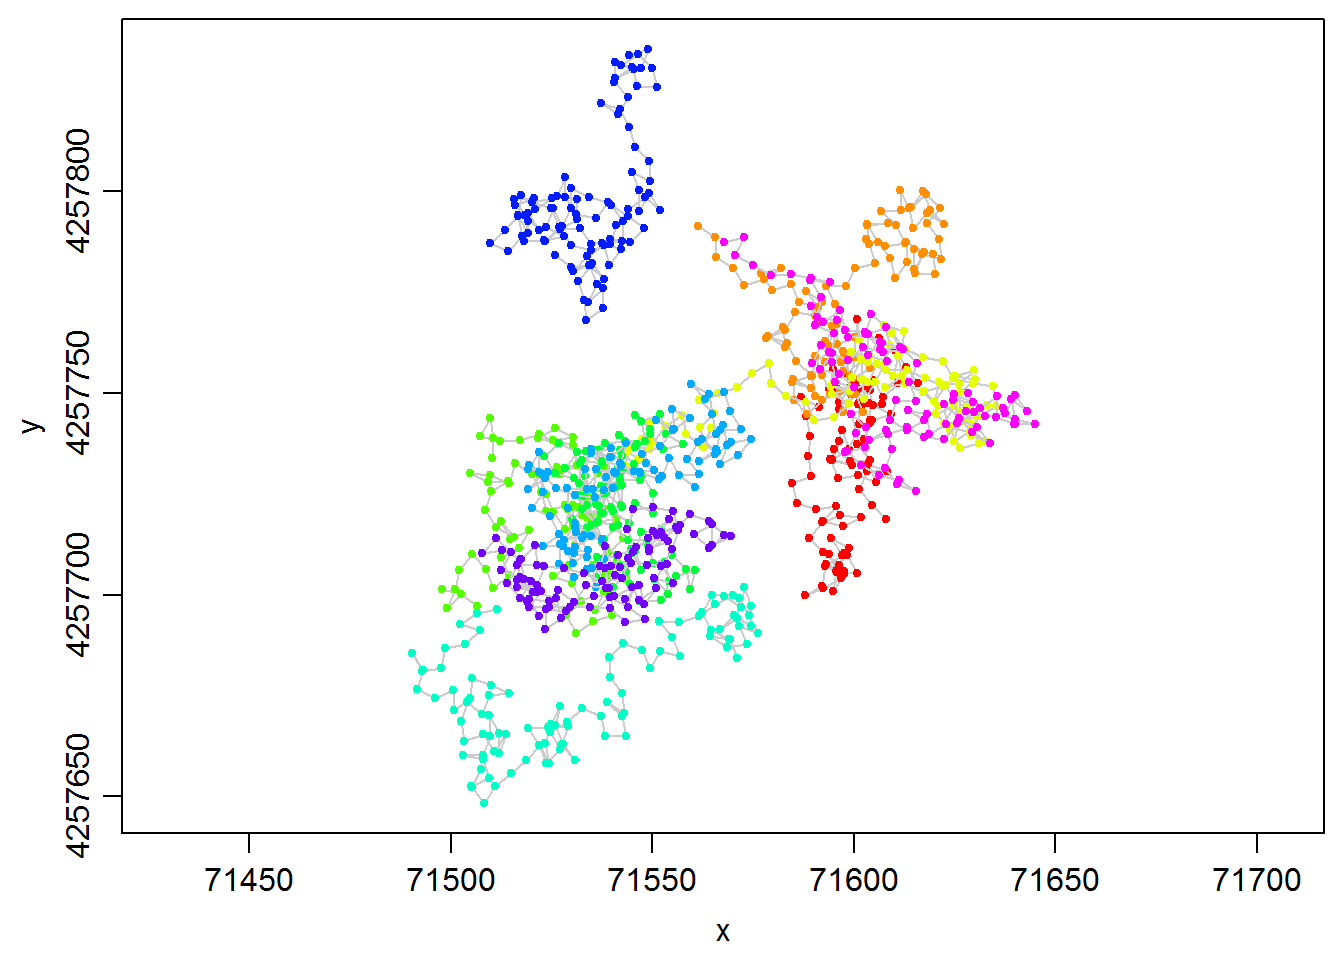
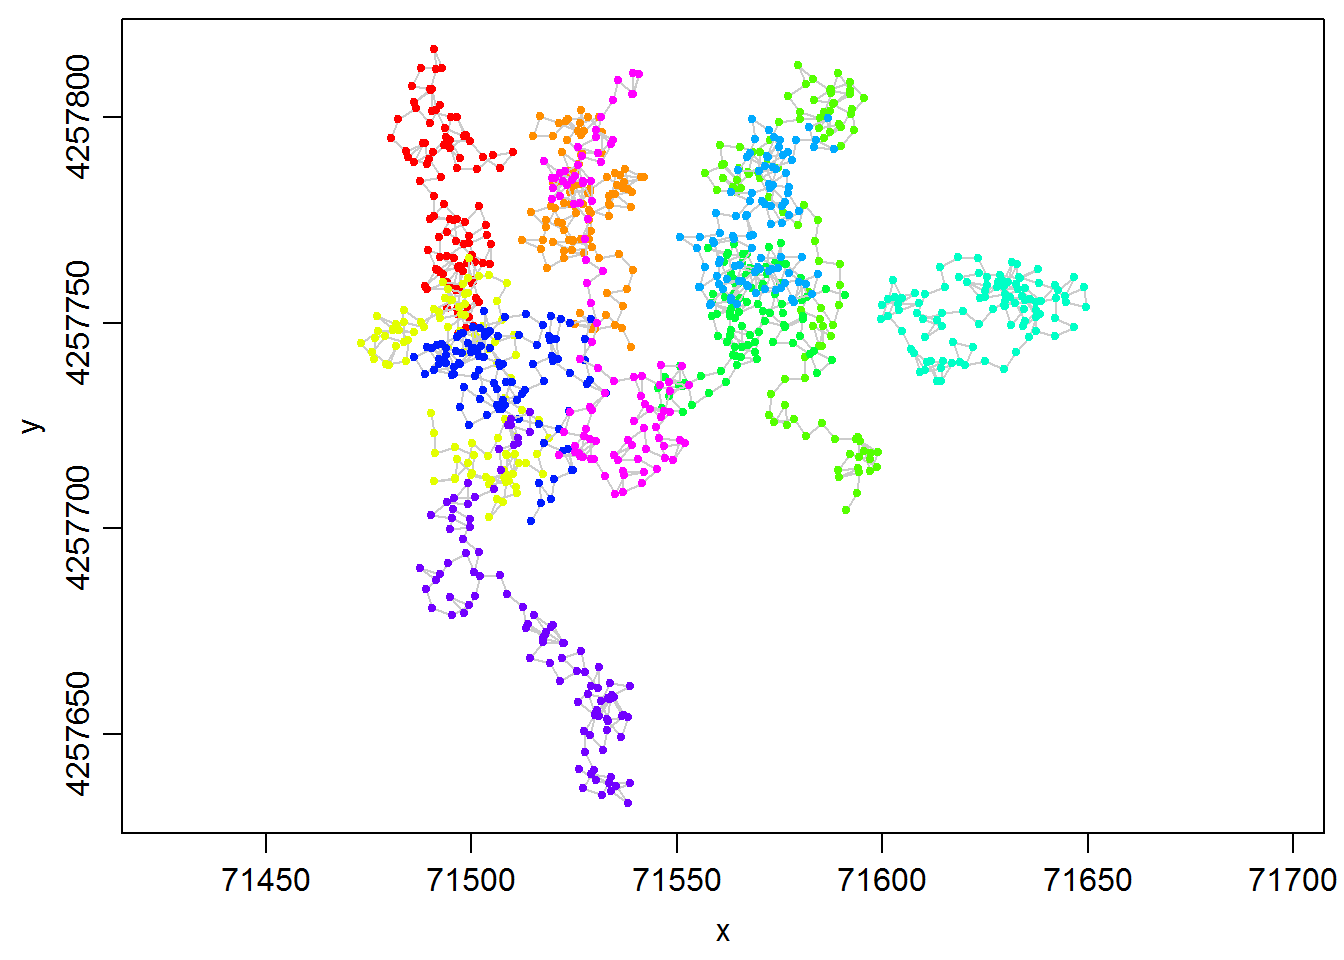
git-svn-id: svn://svn.r-forge.r-project.org/svnroot/tlocoh@91 edb9625f-4e0d-4859-8d74-9fd3b1da38cb

diff --git a/www/tips/isopleth_overlap_auto.html b/www/tips/isopleth_overlap_auto.html
@@ -11,7 +11,7 @@
 <meta name="author" content="Andy Lyons" />
 
 
-<title>Isopleth Overlap Example</title>
+<title>Computing Isopleth Overlap for All Pairs of Hullsets</title>
 
 <script src="isopleth_overlap_auto_files/jquery-1.11.0/jquery.min.js"></script>
 <meta name="viewport" content="width=device-width, initial-scale=1" />
@@ -63,7 +63,7 @@ img {
 
 
 <div id="header">
-<h1 class="title">Isopleth Overlap Example</h1>
+<h1 class="title">Computing Isopleth Overlap for All Pairs of Hullsets</h1>
 <h4 class="author"><em>Andy Lyons</em></h4>
 <h4 class="date"><em>September 4, 2015</em></h4>
 </div>
@@ -72,7 +72,7 @@ img {
 <p>In this tip, we demonstrate how to compute the area of overlap for pairs of hullsets (e.g., indviduals) using the <code>lhs.iso.overlap</code> function from the <em>tlocoh.dev</em> package.</p>
 <div id="create-dummy-data" class="section level3">
 <h3>Create Dummy Data</h3>
-<p>First let’s create some dummy movement data. We’ll create random walks for 50 indviduals, with 100 points each.</p>
+<p>First let’s create some dummy movement data. We’ll create random walks for 10 indviduals, with 100 points each.</p>
 <pre class="r"><code>step_size &lt;- 5
 xys_all &lt;- NULL
 num_id &lt;- 10
@@ -85,9 +85,20 @@ for (i in 1:num_id) {
                            x=start_loc[1] + step_size * cumsum(cos(theta)),
                            y=start_loc[2] + step_size * cumsum(sin(theta)))
     xys_all &lt;- rbind(xys_all, xys_this)
-}</code></pre>
+}
+head(xys_all)</code></pre>
+<pre><code>##       id        x        y
+## 1 ID0001 503.9631 571.4433
+## 2 ID0001 499.3660 569.4768
+## 3 ID0001 500.8815 564.7120
+## 4 ID0001 500.2178 559.7562
+## 5 ID0001 498.9221 564.5854
+## 6 ID0001 500.5292 559.8507</code></pre>
 <p>For a bit of realism, we’ll offset the locations so they’ll appear in Kansas.</p>
 <pre class="r"><code>xys_all &lt;- transform(xys_all, x = x + 71000, y = y + 4257200)</code></pre>
+</div>
+<div id="convert-to-a-locoh-xy-object" class="section level3">
+<h3>Convert to a locoh-xy Object</h3>
 <p>Next, we can convert our points to a locoh-xy object. Let’s first load the tlocoh package.</p>
 <pre class="r"><code>require(tlocoh)</code></pre>
 <pre><code>## Loading required package: tlocoh
@@ -99,10 +110,12 @@ for (i in 1:num_id) {
 packageVersion(&quot;tlocoh&quot;)</code></pre>
 <pre><code>## [1] &#39;1.35.0&#39;</code></pre>
 <pre class="r"><code>dummy.lxy &lt;- xyt.lxy(xy=xys_all[ ,2:3],id=xys_all[ ,1], proj4string = CRS(&quot;+proj=utm +zone=14 +ellps=WGS84&quot;))
-
 plot(dummy.lxy, overlay=T, title.show=F)</code></pre>
 <p><img src="isopleth_overlap_auto_files/figure-html/unnamed-chunk-3-1.png" title="" alt="" width="672" /></p>
-<p>Next, identify nearest neighbors.</p>
+</div>
+<div id="create-hulls-and-isopleths" class="section level3">
+<h3>Create Hulls and Isopleths</h3>
+<p>To create hulls, we first identify nearest neighbors.</p>
 <pre class="r"><code>dummy.lxy &lt;- lxy.nn.add(dummy.lxy, s=0, k=10, status=FALSE)
 summary(dummy.lxy)</code></pre>
 <pre><code>## Summary of LoCoH-xy object: dummy.lxy 
@@ -122,53 +135,50 @@ summary(dummy.lxy)</code></pre>
 ##    no times recorded 
 ## ***Spatial extent 
 ##    ID0001
-##      x: 71584.7 - 71615.8 
-##      y: 4257699.8 - 4257768.3 
+##      x: 71480.5 - 71510.1 
+##      y: 4257747.2 - 4257816.7 
 ##    ID0002
-##      x: 71561.3 - 71622.4 
-##      y: 4257744.7 - 4257800.4 
+##      x: 71512.4 - 71542 
+##      y: 4257744.2 - 4257801.7 
 ##    ID0003
-##      x: 71543.3 - 71635.1 
-##      y: 4257732.2 - 4257766.7 
+##      x: 71473.1 - 71519 
+##      y: 4257702.7 - 4257765.8 
 ##    ID0004
-##      x: 71497.8 - 71543.6 
-##      y: 4257690.6 - 4257743.8 
+##      x: 71557 - 71598.9 
+##      y: 4257704.6 - 4257812.7 
 ##    ID0005
-##      x: 71523.2 - 71560.7 
-##      y: 4257698.3 - 4257744.7 
+##      x: 71545.6 - 71591 
+##      y: 4257728.4 - 4257769.3 
 ##    ID0006
-##      x: 71490.4 - 71576.2 
-##      y: 4257648.4 - 4257701.9 
+##      x: 71599.7 - 71649.6 
+##      y: 4257735.8 - 4257766.1 
 ##    ID0007
-##      x: 71519.3 - 71574.5 
-##      y: 4257701.8 - 4257752.3 
+##      x: 71550.8 - 71588.4 
+##      y: 4257754.3 - 4257799.8 
 ##    ID0008
-##      x: 71509.7 - 71552 
-##      y: 4257768.2 - 4257835.3 
+##      x: 71486 - 71532.7 
+##      y: 4257701.8 - 4257752.9 
 ##    ID0009
-##      x: 71507.9 - 71569.5 
-##      y: 4257691.3 - 4257721.8 
+##      x: 71487.6 - 71538.7 
+##      y: 4257633.2 - 4257728.4 
 ##    ID0010
-##      x: 71567.8 - 71644.8 
-##      y: 4257725.7 - 4257788.6 
+##      x: 71517.7 - 71553.1 
+##      y: 4257708.4 - 4257810.8 
 ##   proj: +proj=utm +zone=14 +ellps=WGS84
 ## ***Ancilliary Variables: 
 ##    -none- 
 ## ***Nearest-neighbor set(s): 
-##    1 ID0001|vmax|s0|n100|kmax10|rmax3.4|amax22
-##    2 ID0002|vmax|s0|n100|kmax10|rmax5|amax35.9
-##    3 ID0003|vmax|s0|n100|kmax10|rmax4|amax29.5
-##    4 ID0004|vmax|s0|n100|kmax10|rmax3.5|amax20.9
-##    5 ID0005|vmax|s0|n100|kmax10|rmax4.1|amax28.1
-##    6 ID0006|vmax|s0|n100|kmax10|rmax5|amax35.2
-##    7 ID0007|vmax|s0|n100|kmax10|rmax4|amax30.7
-##    8 ID0008|vmax|s0|n100|kmax10|rmax4.8|amax30.5
-##    9 ID0009|vmax|s0|n100|kmax10|rmax4.1|amax27.5
-##    10 ID0010|vmax|s0|n100|kmax10|rmax4.4|amax32.7</code></pre>
-</div>
-<div id="create-hulls-and-isopleths" class="section level3">
-<h3>Create Hulls and Isopleths</h3>
-<p>Next, we make a hullset object. We’ll add the <code>iso.add=TRUE</code> argument to create default density isopleths at the same time and specify the isopleth levels with <code>iso.levels</code>.</p>
+##    1 ID0001|vmax|s0|n100|kmax10|rmax4.3|amax27.7
+##    2 ID0002|vmax|s0|n100|kmax10|rmax3.6|amax24.7
+##    3 ID0003|vmax|s0|n100|kmax10|rmax4.1|amax24.7
+##    4 ID0004|vmax|s0|n100|kmax10|rmax4.8|amax32.2
+##    5 ID0005|vmax|s0|n100|kmax10|rmax3.7|amax25.6
+##    6 ID0006|vmax|s0|n100|kmax10|rmax3|amax24.1
+##    7 ID0007|vmax|s0|n100|kmax10|rmax4.3|amax29.9
+##    8 ID0008|vmax|s0|n100|kmax10|rmax3.3|amax22.8
+##    9 ID0009|vmax|s0|n100|kmax10|rmax3.6|amax26.8
+##    10 ID0010|vmax|s0|n100|kmax10|rmax4|amax28.1</code></pre>
+<p>Next, we make a hullset object. We’ll add the <code>iso.add=TRUE</code> argument to create default density isopleths at the same time and specify the isopleth levels we want to use with <code>iso.levels</code>.</p>
 <pre class="r"><code>dummy.lhs &lt;- lxy.lhs(dummy.lxy, k=10, s=0, iso.add=TRUE, iso.levels = c(0.5, 0.95), status=FALSE)
 #summary(dummy.lhs)</code></pre>
 <p>Let’s inspect isopleths for one of the individuals.</p>
@@ -207,40 +217,40 @@ plot(overlap_stats$spdf, col=&quot;#32323280&quot;, add=TRUE)</code></pre>
 <p><img src="isopleth_overlap_auto_files/figure-html/plot_areaoverlap-1.png" title="" alt="" width="672" /></p>
 <p>The data table (or attribute table) for the areas of intersection of two ids contains the area expressed in map units, as well as a proportion of the two hullsets.</p>
 <pre class="r"><code>head(overlap_stats$spdf@data)</code></pre>
-<pre><code>##                      hs1name                    hs2name iso_level      area area_prhs1 area_prhs2
-## 1 ID0001.pts100.k10.s0.kmin0 ID0002.pts100.k10.s0.kmin0      0.95 171.80099 0.19489992 0.17826482
-## 2 ID0001.pts100.k10.s0.kmin0 ID0003.pts100.k10.s0.kmin0      0.95 208.10337 0.23608322 0.25077164
-## 3 ID0001.pts100.k10.s0.kmin0 ID0010.pts100.k10.s0.kmin0      0.95 210.06741 0.23831133 0.22363975
-## 4 ID0002.pts100.k10.s0.kmin0 ID0003.pts100.k10.s0.kmin0      0.95 126.02754 0.13076920 0.15186747
-## 5 ID0002.pts100.k10.s0.kmin0 ID0010.pts100.k10.s0.kmin0      0.95 270.56581 0.28074557 0.28804691
-## 6 ID0003.pts100.k10.s0.kmin0 ID0005.pts100.k10.s0.kmin0      0.95  63.50262 0.07652281 0.08271858</code></pre>
+<pre><code>##                      hs1name                    hs2name iso_level       area  area_prhs1  area_prhs2
+## 1 ID0001.pts100.k10.s0.kmin0 ID0003.pts100.k10.s0.kmin0      0.95 117.550593 0.186894730 0.138830330
+## 2 ID0001.pts100.k10.s0.kmin0 ID0008.pts100.k10.s0.kmin0      0.95   3.033839 0.004823527 0.003562057
+## 3 ID0002.pts100.k10.s0.kmin0 ID0008.pts100.k10.s0.kmin0      0.95   6.381660 0.009442199 0.007492764
+## 4 ID0002.pts100.k10.s0.kmin0 ID0010.pts100.k10.s0.kmin0      0.95 212.910251 0.315018498 0.202157148
+## 5 ID0003.pts100.k10.s0.kmin0 ID0008.pts100.k10.s0.kmin0      0.95 124.601709 0.147157883 0.146295973
+## 6 ID0003.pts100.k10.s0.kmin0 ID0009.pts100.k10.s0.kmin0      0.95 112.677183 0.133074706 0.123978251</code></pre>
 <p>The SpatialPolygonsDataFrame can also be exported for use in a GIS program.</p>
 <p>The <strong>overlap_area</strong> and <strong>overlap_prop</strong> elements contain matrices of the area of intersection expressed as i) map units and ii) proportions of the areas of isopleths. We can inspect the comparison matrices. First we’ll look at the area of intersection. You’ll note that this matrix is symmetrical around the diagonal.</p>
 <pre class="r"><code>overlap_stats$overlap_area$iso95</code></pre>
-<pre><code>##          ID0001   ID0002    ID0003   ID0004    ID0005 ID0006    ID0007 ID0008    ID0009   ID0010
-## ID0001   0.0000 171.8010 208.10337   0.0000   0.00000      0   0.00000      0   0.00000 210.0674
-## ID0002 171.8010   0.0000 126.02754   0.0000   0.00000      0   0.00000      0   0.00000 270.5658
-## ID0003 208.1034 126.0275   0.00000   0.0000  63.50262      0 124.43664      0   0.00000 288.7087
-## ID0004   0.0000   0.0000   0.00000   0.0000 323.81116      0 321.64541      0 229.46767   0.0000
-## ID0005   0.0000   0.0000  63.50262 323.8112   0.00000      0 207.35964      0 193.74896   0.0000
-## ID0006   0.0000   0.0000   0.00000   0.0000   0.00000      0   0.00000      0   0.00000   0.0000
-## ID0007   0.0000   0.0000 124.43664 321.6454 207.35964      0   0.00000      0  25.48806   0.0000
-## ID0008   0.0000   0.0000   0.00000   0.0000   0.00000      0   0.00000      0   0.00000   0.0000
-## ID0009   0.0000   0.0000   0.00000 229.4677 193.74896      0  25.48806      0   0.00000   0.0000
-## ID0010 210.0674 270.5658 288.70872   0.0000   0.00000      0   0.00000      0   0.00000   0.0000</code></pre>
+<pre><code>##            ID0001    ID0002   ID0003   ID0004    ID0005 ID0006   ID0007     ID0008     ID0009    ID0010
+## ID0001   0.000000   0.00000 117.5506   0.0000   0.00000      0   0.0000   3.033839   0.000000   0.00000
+## ID0002   0.000000   0.00000   0.0000   0.0000   0.00000      0   0.0000   6.381660   0.000000 212.91025
+## ID0003 117.550593   0.00000   0.0000   0.0000   0.00000      0   0.0000 124.601709 112.677183   0.00000
+## ID0004   0.000000   0.00000   0.0000   0.0000  16.87670      0 139.1920   0.000000   0.000000   0.00000
+## ID0005   0.000000   0.00000   0.0000  16.8767   0.00000      0 227.7802   0.000000   0.000000  47.27948
+## ID0006   0.000000   0.00000   0.0000   0.0000   0.00000      0   0.0000   0.000000   0.000000   0.00000
+## ID0007   0.000000   0.00000   0.0000 139.1920 227.78016      0   0.0000   0.000000   0.000000   0.00000
+## ID0008   3.033839   6.38166 124.6017   0.0000   0.00000      0   0.0000   0.000000   5.966482  16.94726
+## ID0009   0.000000   0.00000 112.6772   0.0000   0.00000      0   0.0000   5.966482   0.000000   0.00000
+## ID0010   0.000000 212.91025   0.0000   0.0000  47.27948      0   0.0000  16.947263   0.000000   0.00000</code></pre>
 <p>Finally, we’ll look at the matrix which expresses the area of overlap as a proportion of i) the first hullset (on the vertical), and ii) the second hullset (on the horizontal). This matrix is <strong>not</strong> symmetrical.</p>
 <pre class="r"><code>overlap_stats$overlap_prop$iso95</code></pre>
-<pre><code>##           ID0001    ID0002     ID0003    ID0004     ID0005 ID0006     ID0007 ID0008     ID0009    ID0010
-## ID0001 0.0000000 0.1948999 0.23608322 0.0000000 0.00000000      0 0.00000000      0 0.00000000 0.2383113
-## ID0002 0.1782648 0.0000000 0.13076920 0.0000000 0.00000000      0 0.00000000      0 0.00000000 0.2807456
-## ID0003 0.2507716 0.1518675 0.00000000 0.0000000 0.07652281      0 0.14995039      0 0.00000000 0.3479038
-## ID0004 0.0000000 0.0000000 0.00000000 0.0000000 0.25005258      0 0.24838015      0 0.17719890 0.0000000
-## ID0005 0.0000000 0.0000000 0.08271858 0.4217968 0.00000000      0 0.27010690      0 0.25237761 0.0000000
-## ID0006 0.0000000 0.0000000 0.00000000 0.0000000 0.00000000      0 0.00000000      0 0.00000000 0.0000000
-## ID0007 0.0000000 0.0000000 0.15905759 0.4111341 0.26505156      0 0.00000000      0 0.03257939 0.0000000
-## ID0008 0.0000000 0.0000000 0.00000000 0.0000000 0.00000000      0 0.00000000      0 0.00000000 0.0000000
-## ID0009 0.0000000 0.0000000 0.00000000 0.3285105 0.27737489      0 0.03648922      0 0.00000000 0.0000000
-## ID0010 0.2236398 0.2880469 0.30736203 0.0000000 0.00000000      0 0.00000000      0 0.00000000 0.0000000</code></pre>
+<pre><code>##             ID0001      ID0002    ID0003     ID0004     ID0005 ID0006    ID0007      ID0008    ID0009     ID0010
+## ID0001 0.000000000 0.000000000 0.1868947 0.00000000 0.00000000      0 0.0000000 0.004823527 0.0000000 0.00000000
+## ID0002 0.000000000 0.000000000 0.0000000 0.00000000 0.00000000      0 0.0000000 0.009442199 0.0000000 0.31501850
+## ID0003 0.138830330 0.000000000 0.0000000 0.00000000 0.00000000      0 0.0000000 0.147157883 0.1330747 0.00000000
+## ID0004 0.000000000 0.000000000 0.0000000 0.00000000 0.01856652      0 0.1531289 0.000000000 0.0000000 0.00000000
+## ID0005 0.000000000 0.000000000 0.0000000 0.02538068 0.00000000      0 0.3425560 0.000000000 0.0000000 0.07110306
+## ID0006 0.000000000 0.000000000 0.0000000 0.00000000 0.00000000      0 0.0000000 0.000000000 0.0000000 0.00000000
+## ID0007 0.000000000 0.000000000 0.0000000 0.19040517 0.31158780      0 0.0000000 0.000000000 0.0000000 0.00000000
+## ID0008 0.003562057 0.007492764 0.1462960 0.00000000 0.00000000      0 0.0000000 0.000000000 0.0070053 0.01989793
+## ID0009 0.000000000 0.000000000 0.1239783 0.00000000 0.00000000      0 0.0000000 0.006564896 0.0000000 0.00000000
+## ID0010 0.000000000 0.202157148 0.0000000 0.00000000 0.04489161      0 0.0000000 0.016091336 0.0000000 0.00000000</code></pre>
 </div>
 <div id="summary" class="section level3">
 <h3>Summary</h3>
